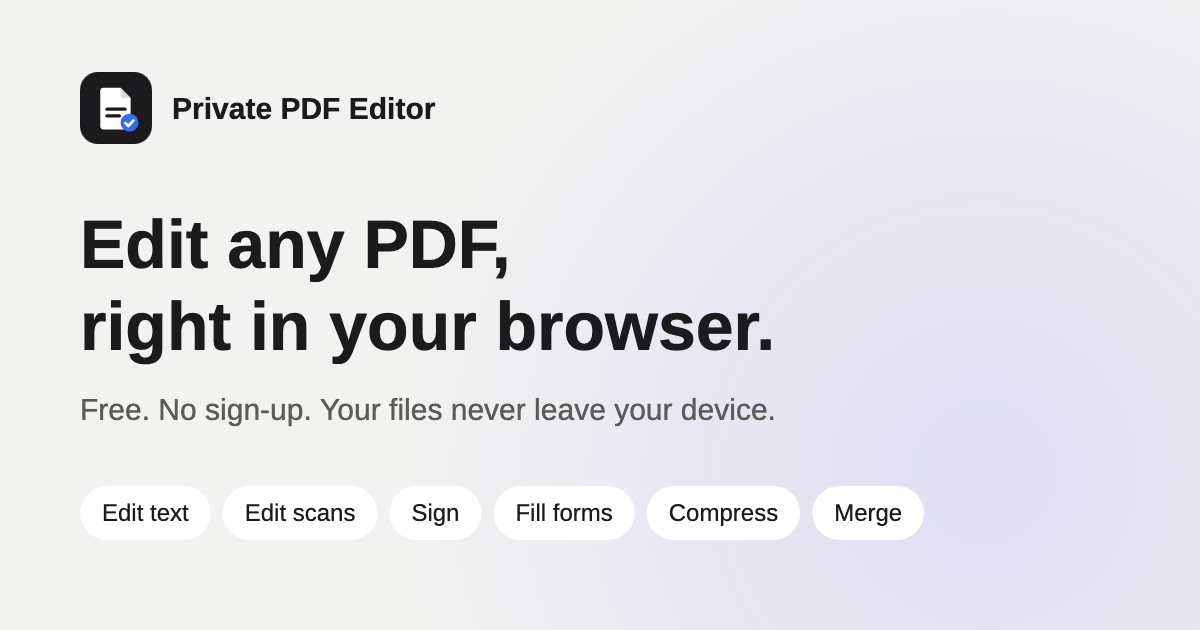
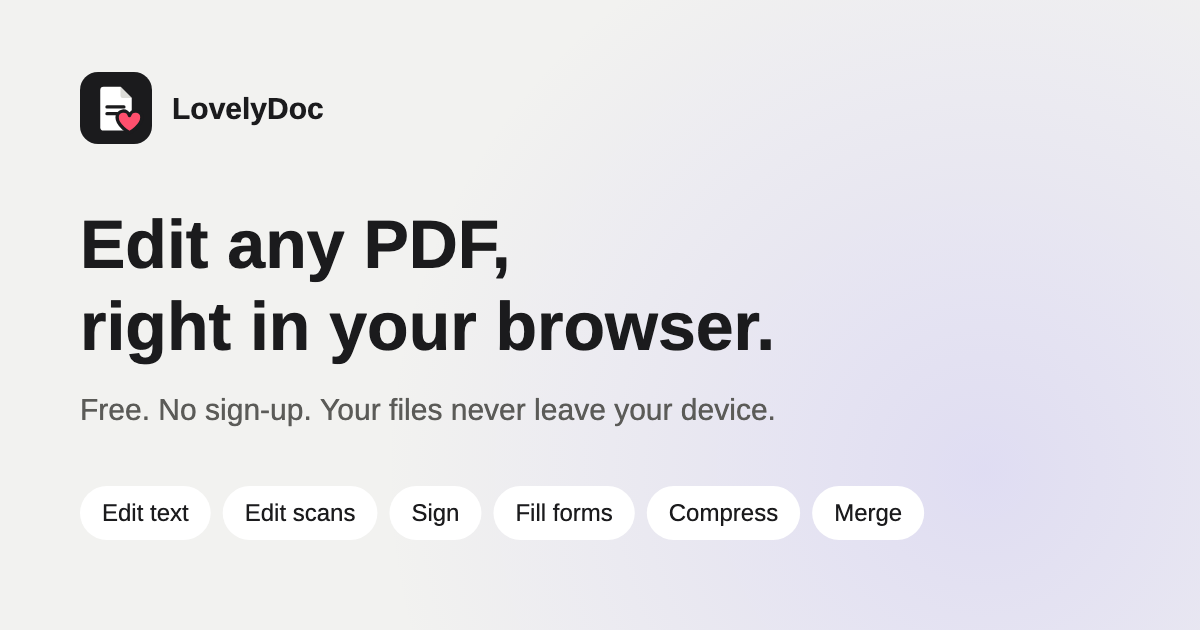
Brand the site as LovelyDoc
A page-with-a-heart mark and the name lead the top bar (on the start page,
tool pages and guides) and sign off the footer; titles, Open Graph and
structured data carry the name. The favicon, app icons and share picture are
redrawn from the new mark. On phones the bar drops its small Open PDF button
to fit the name; the big one sits right below.

Changed region(s): [[0.1542, 0.1508, 0.37, 0.2111], [0.0925, 0.1508, 0.1233, 0.2111]]

diff --git a/apps/demo/src/Home.tsx b/apps/demo/src/Home.tsx
@@ -4,6 +4,7 @@ import { FeedbackDialog } from './FeedbackDialog';
 import { Footer } from './Footer';
 import { browserLocale, LANGUAGE_NAMES, LOCALES, SUGGEST, useI18n, type Locale, type Messages } from './i18n';
 import { Icon, type IconName } from './icons';
+import { BrandLink } from './Logo';
 import { LANDING_TOOLS, landingPath, type LandingId } from './site';
 
 export interface OpenRequest {
@@ -150,17 +151,11 @@ export function Home({
       <div className="home__top">
         <nav className="bar" aria-label={t.home.sections}>
           <div className="group">
-            <a
-              className="pill pill--icon"
-              href={landingPath('home', locale)}
-              aria-current={id === 'home' ? 'page' : undefined}
-              aria-label={t.home.home}
-            >
-              <Icon name="home" />
-            </a>
-            <button type="button" className="pill" aria-label={t.home.openPdf} onClick={() => choose()}>
+            <BrandLink href={landingPath('home', locale)} current={id === 'home'} />
+            {/* Phones have room for the name, and the big button below opens a PDF. */}
+            <button type="button" className="pill wide-only" onClick={() => choose()}>
               <Icon name="file" />
-              <span className="wide-only">{t.home.openPdf}</span>
+              {t.home.openPdf}
             </button>
           </div>
         </nav>

diff --git a/apps/demo/src/Logo.tsx b/apps/demo/src/Logo.tsx
@@ -1,0 +1,30 @@
+import { SITE } from './site';
+
+/** The LovelyDoc mark: a page with a heart. The same drawing as public/favicon.svg. */
+export function Logo({ size = 24 }: { size?: number }) {
+  return (
+    <svg className="logo" width={size} height={size} viewBox="0 0 64 64" aria-hidden="true">
+      <rect width="64" height="64" rx="16" fill="#1b1b1d" />
+      <path d="M21 13h15l10 10v26a3 3 0 0 1-3 3H21a3 3 0 0 1-3-3V16a3 3 0 0 1 3-3z" fill="#fff" />
+      <path d="M36 13v8a2 2 0 0 0 2 2h8" fill="#dcdcd8" />
+      <path d="M24 31h15M24 37h9" stroke="#1b1b1d" strokeWidth="3" strokeLinecap="round" />
+      <path
+        d="M44 54s-11-6.4-11-13.6a5.6 5.6 0 0 1 11-1.6 5.6 5.6 0 0 1 11 1.6C55 47.6 44 54 44 54z"
+        fill="#ff4f6d"
+        stroke="#1b1b1d"
+        strokeWidth="3"
+        strokeLinejoin="round"
+      />
+    </svg>
+  );
+}
+
+/** The mark and the name, linking to the start page: the first item of a page's top bar. */
+export function BrandLink({ href, current }: { href: string; current?: boolean }) {
+  return (
+    <a className="pill brand" href={href} aria-current={current ? 'page' : undefined}>
+      <Logo />
+      <span className="brand__name">{SITE.name}</span>
+    </a>
+  );
+}

diff --git a/apps/demo/src/icons.tsx b/apps/demo/src/icons.tsx
@@ -19,7 +19,6 @@ const PATHS = {
   sun: '<circle cx="12" cy="12" r="4"/><path d="M12 2v2"/><path d="M12 20v2"/><path d="m4.93 4.93 1.41 1.41"/><path d="m17.66 17.66 1.41 1.41"/><path d="M2 12h2"/><path d="M20 12h2"/><path d="m6.34 17.66-1.41 1.41"/><path d="m19.07 4.93-1.41 1.41"/>',
   moon: '<path d="M12 3a6 6 0 0 0 9 9 9 9 0 1 1-9-9Z"/>',
   file: '<path d="M14.5 2H6a2 2 0 0 0-2 2v16a2 2 0 0 0 2 2h12a2 2 0 0 0 2-2V7.5L14.5 2z"/><path d="M14 2v6h6"/>',
-  home: '<path d="m3 9 9-7 9 7v11a2 2 0 0 1-2 2H5a2 2 0 0 1-2-2z"/><path d="M9 22V12h6v10"/>',
   grid: '<rect x="3" y="3" width="7" height="7" rx="2"/><rect x="14" y="3" width="7" height="7" rx="2"/><rect x="14" y="14" width="7" height="7" rx="2"/><rect x="3" y="14" width="7" height="7" rx="2"/>',
   lock: '<rect x="3" y="11" width="18" height="11" rx="2"/><path d="M7 11V7a5 5 0 0 1 10 0v4"/>',
   sign: '<path d="M3 17c3-3 4-9 7-9s-1 8 2 8 3-4 5-4 2 3 4 3"/><path d="M3 21h18"/>',

diff --git a/apps/demo/src/styles.css b/apps/demo/src/styles.css
@@ -117,6 +117,17 @@ a.pill {
   width: 36px;
   padding: 0;
 }
+/* The mark and the name, first in a top bar. */
+.pill.brand {
+  padding: 0 14px 0 6px;
+  color: var(--text);
+  font-weight: 650;
+  letter-spacing: -0.01em;
+}
+.logo {
+  flex: none;
+  border-radius: 7px;
+}
 .pill.style-bold,
 .pill.style-italic {
   font-family: Georgia, 'Times New Roman', serif;
@@ -392,13 +403,23 @@ a.pill {
   font-size: 13px;
   text-decoration: none;
 }
+.footer .footer__brand {
+  display: flex;
+  align-items: center;
+  justify-content: center;
+  gap: 8px;
+  margin-top: 32px;
+  color: var(--text);
+  font-size: 14px;
+  font-weight: 600;
+}
 .footer a:hover,
 .footer a[aria-current='page'] {
   color: var(--text);
 }
 .footer p {
   max-width: 560px;
-  margin: 20px auto 0;
+  margin: 12px auto 0;
   color: var(--text-3);
   font-size: 12px;
   line-height: 1.5;

diff --git a/apps/demo/src/Footer.tsx b/apps/demo/src/Footer.tsx
@@ -1,5 +1,6 @@
 import { useI18n } from './i18n';
-import { LANDING_IDS, landingPath, type LandingId } from './site';
+import { Logo } from './Logo';
+import { LANDING_IDS, landingPath, SITE, type LandingId } from './site';
 
 /** Links to every tool page (in the page's language) and the guides: how people and search engines find the rest. */
 export function Footer({ current }: { current?: LandingId | 'blog' }) {
@@ -18,6 +19,10 @@ export function Footer({ current }: { current?: LandingId | 'blog' }) {
           </a>
         )}
       </nav>
+      <p className="footer__brand">
+        <Logo size={20} />
+        {SITE.name}
+      </p>
       <p>{t.footer.privacy}</p>
     </footer>
   );

diff --git a/apps/demo/src/Blog.tsx b/apps/demo/src/Blog.tsx
@@ -1,6 +1,7 @@
 import { formatDate, type Post } from './posts';
 import { Footer } from './Footer';
 import { Icon } from './icons';
+import { BrandLink } from './Logo';
 
 /** The guides' top bar: back to the editor, and the list of guides. */
 function BlogTop() {
@@ -8,9 +9,7 @@ function BlogTop() {
     <div className="home__top">
       <nav className="bar" aria-label="Sections">
         <div className="group">
-          <a className="pill pill--icon" href="/" aria-label="Home">
-            <Icon name="home" />
-          </a>
+          <BrandLink href="/" />
           <a className="pill" href="/blog">
             Guides
           </a>

diff --git a/apps/demo/src/site.ts b/apps/demo/src/site.ts
@@ -2,12 +2,11 @@ import type { OpenRequest } from './Home';
 import { LOCALES, localePrefix, localeOfPath, type Locale } from './i18n';
 
 /**
- * The site's name and address, used in titles, canonical links, the sitemap
- * and structured data. Change them here once the product has its own name
- * and domain.
+ * The site's name and address, used in its top bar and footer, titles,
+ * canonical links, the sitemap and structured data.
  */
 export const SITE = {
-  name: 'Private PDF Editor',
+  name: 'LovelyDoc',
   url: 'https://lovelydoc.com',
 };
 

diff --git a/apps/demo/src/i18n/de.ts b/apps/demo/src/i18n/de.ts
@@ -9,7 +9,6 @@ const FREE = { q: 'Ist es kostenlos?', a: 'Ja – ohne Anmeldung, ohne Wasserzei
 export const de: Messages = {
   home: {
     sections: 'Bereiche',
-    home: 'Startseite',
     openPdf: 'PDF öffnen',
     feedback: 'Feedback senden',
     theme: 'Design wechseln',

diff --git a/apps/demo/src/i18n/nb.ts b/apps/demo/src/i18n/nb.ts
@@ -9,7 +9,6 @@ const FREE = { q: 'Er det gratis?', a: 'Ja, uten registrering, uten vannmerke og
 export const nb: Messages = {
   home: {
     sections: 'Seksjoner',
-    home: 'Hjem',
     openPdf: 'Åpne PDF',
     feedback: 'Send tilbakemelding',
     theme: 'Bytt tema',

diff --git a/apps/demo/src/i18n/sv.ts b/apps/demo/src/i18n/sv.ts
@@ -9,7 +9,6 @@ const FREE = { q: 'Är det gratis?', a: 'Ja, utan registrering, utan vattenstäm
 export const sv: Messages = {
   home: {
     sections: 'Avsnitt',
-    home: 'Hem',
     openPdf: 'Öppna PDF',
     feedback: 'Skicka feedback',
     theme: 'Byt tema',

diff --git a/apps/demo/src/i18n/en.ts b/apps/demo/src/i18n/en.ts
@@ -25,7 +25,6 @@ const FREE = { q: 'Is it free?', a: 'Yes, with no sign-up, no watermark and no l
 export const en = {
   home: {
     sections: 'Sections',
-    home: 'Home',
     openPdf: 'Open PDF',
     feedback: 'Send feedback',
     theme: 'Switch theme',
